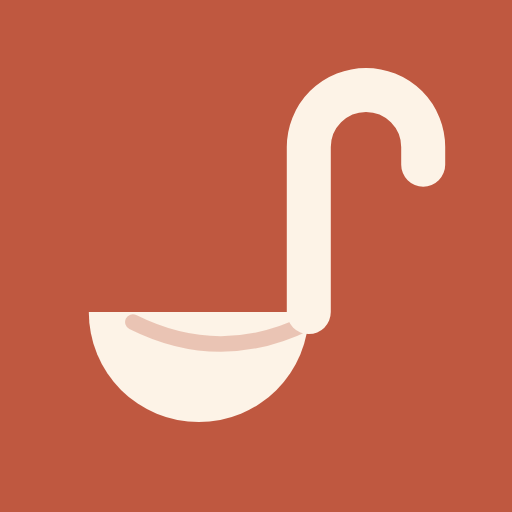
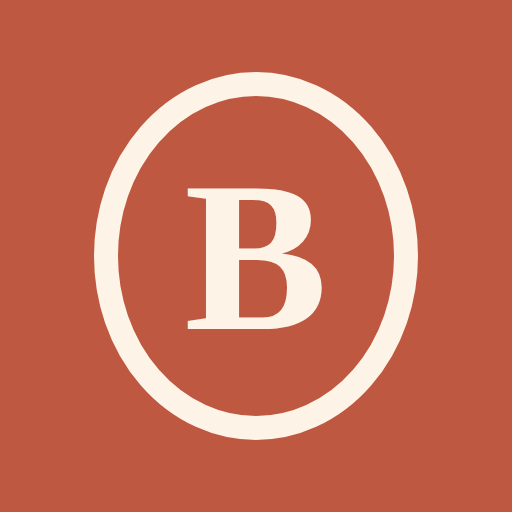
Rebrand: Ladle -> Bistro, with the oval-B monogram
Keeps the existing terracotta/olive palette; only the name and mark change.

- New Bistro monogram (serif “B” in an oval plaque) as the app icon — cream on
  the same terracotta ground. Regenerated favicon.svg and the 192/512 +
  apple-touch PNGs from it.
- BistroMark component (the monogram) signs off the "done" states, replacing
  the ladle glyph.
- Header signature is now the "Bistro" wordmark alone; pairing a "B" monogram
  with the word would only double the initial, so the mark stands alone on the
  icon and the done states instead.
- Renamed "Ladle" -> "Bistro" everywhere: title, social tags, apple web-app
  title, manifest name/short_name, and the walkthrough copy.

Claude-Session: https://claude.ai/code/session_01JSSF96LeRvXYfJ1hx6bc2p

Changed region(s): [[0.1562, 0.125, 0.875, 0.875]]

diff --git a/src/components/BistroMark.jsx b/src/components/BistroMark.jsx
@@ -1,0 +1,32 @@
+// The Bistro mark — a serif “B” in an oval plaque, the same monogram as the app
+// icon. Used to sign off the app's finished states. Matches the lucide icon API
+// (a `size` prop, currentColor) so it drops straight into EmptyState and
+// anywhere an icon is expected; the ground it sits on sets the colour.
+function BistroMark({ size = 24, className }) {
+  return (
+    <svg
+      className={className}
+      width={size}
+      height={size}
+      viewBox="0 0 48 48"
+      fill="none"
+      aria-hidden="true"
+    >
+      <ellipse cx="24" cy="24" rx="16.5" ry="19" stroke="currentColor" strokeWidth="2.6" />
+      <text
+        x="24"
+        y="24.5"
+        textAnchor="middle"
+        dominantBaseline="central"
+        fontFamily="Georgia, 'Times New Roman', serif"
+        fontWeight="600"
+        fontSize="23"
+        fill="currentColor"
+      >
+        B
+      </text>
+    </svg>
+  );
+}
+
+export default BistroMark;

diff --git a/src/components/BrandMark.jsx b/src/components/BrandMark.jsx
@@ -1,23 +1,12 @@
-// The app's logotype: a small hand-drawn ladle beside the wordmark, set in the
-// display serif. Sits where a screen's eyebrow label would — one quiet, human
-// signature instead of a generic product label.
+// The app's logotype: the wordmark set in the display serif. Sits where a
+// screen's eyebrow label would — one quiet, human signature instead of a
+// generic product label. The monogram mark (see BistroMark / the app icon)
+// carries the brand where it stands alone; here the word does the work, since
+// pairing a “B” with “Bistro” only doubles the initial.
 function BrandMark() {
   return (
     <span className="brand-mark">
-      <svg
-        className="brand-mark-glyph"
-        viewBox="0 0 24 24"
-        fill="none"
-        stroke="currentColor"
-        strokeWidth="1.8"
-        strokeLinecap="round"
-        strokeLinejoin="round"
-        aria-hidden="true"
-      >
-        <path d="M3.5 13.5h10a5 5 0 0 1-10 0Z" />
-        <path d="M13.5 13.5V6a2.6 2.6 0 0 1 5.2 0v.8" />
-      </svg>
-      <span className="brand-mark-word">Ladle</span>
+      <span className="brand-mark-word">Bistro</span>
     </span>
   );
 }

diff --git a/index.html b/index.html
@@ -8,13 +8,13 @@
 
     <!-- Link preview when the URL is shared in chats / social -->
     <meta property="og:type" content="website" />
-    <meta property="og:site_name" content="Ladle" />
-    <meta property="og:title" content="Ladle — plan the week, shop once" />
+    <meta property="og:site_name" content="Bistro" />
+    <meta property="og:title" content="Bistro — plan the week, shop once" />
     <meta property="og:description" content="Plan the week's dinners, reuse leftovers, and get a smart shopping list that skips what you already have." />
     <meta property="og:url" content="https://andrewmcconnell1-crypto.github.io/weekly-planner-react/" />
     <meta property="og:image" content="https://andrewmcconnell1-crypto.github.io/weekly-planner-react/icon-512.png" />
     <meta name="twitter:card" content="summary" />
-    <meta name="twitter:title" content="Ladle — plan the week, shop once" />
+    <meta name="twitter:title" content="Bistro — plan the week, shop once" />
     <meta name="twitter:description" content="Plan the week's dinners, reuse leftovers, and get a smart shopping list that skips what you already have." />
     <meta name="twitter:image" content="https://andrewmcconnell1-crypto.github.io/weekly-planner-react/icon-512.png" />
 
@@ -29,8 +29,8 @@
     />
     <meta name="apple-mobile-web-app-capable" content="yes" />
     <meta name="apple-mobile-web-app-status-bar-style" content="black-translucent" />
-    <meta name="apple-mobile-web-app-title" content="Ladle" />
-    <title>Ladle — weekly meal planner</title>
+    <meta name="apple-mobile-web-app-title" content="Bistro" />
+    <title>Bistro — weekly meal planner</title>
     <!-- Apply the saved theme before paint so there's no light flash in dark mode. -->
     <script>
       (function () {

diff --git a/src/components/HomeScreen.jsx b/src/components/HomeScreen.jsx
@@ -4,7 +4,7 @@ import TonightCard from "./TonightCard";
 import MealGroups from "./MealGroups";
 import ProgressRing from "./ProgressRing";
 import DishGlyph from "./DishGlyph";
-import LadleGlyph from "./LadleGlyph";
+import BistroMark from "./BistroMark";
 import { formatDate } from "../utils/dateUtils";
 import { days } from "../utils/mealUtils";
 
@@ -176,7 +176,7 @@ export default function HomeScreen({
           </button>
         ) : (
           <p className="home-week-done">
-            <LadleGlyph size={16} className="home-week-done-glyph" />
+            <BistroMark size={16} className="home-week-done-glyph" />
             Every night's planned — nice work.
           </p>
         )}

diff --git a/src/components/ShoppingList.jsx b/src/components/ShoppingList.jsx
@@ -2,7 +2,7 @@ import { useEffect, useRef, useState } from "react";
 import { ChevronDown, HelpCircle, ShoppingBasket } from "lucide-react";
 
 import EmptyState from "./EmptyState";
-import LadleGlyph from "./LadleGlyph";
+import BistroMark from "./BistroMark";
 import { normaliseItemName } from "../utils/itemUtils";
 import {
   groupByTier,
@@ -303,7 +303,7 @@ function ShoppingList({
       ) : (
         <>
           {pendingItems.length === 0 ? (
-            <EmptyState icon={LadleGlyph} tone="done" title="Kitchen's sorted">
+            <EmptyState icon={BistroMark} tone="done" title="Kitchen's sorted">
               Every last thing is in the basket — go put your feet up.
             </EmptyState>
           ) : priorityLayout ? (

diff --git a/src/components/DishGlyph.jsx b/src/components/DishGlyph.jsx
@@ -1,4 +1,4 @@
-// Ladle's hand-drawn glyph family — one consistent line-icon style (1.7
+// Bistro's hand-drawn glyph family — one consistent line-icon style (1.7
 // stroke, round caps) instead of platform emoji, so every tile and chip looks
 // like it belongs to this app. The dish glyphs' keys match what recipeImagery
 // resolves; the pantry glyphs (bottle, salt, onion, garlic, tin) and the

diff --git a/src/components/walkthroughSteps.js b/src/components/walkthroughSteps.js
@@ -42,7 +42,7 @@ export const WALKTHROUGH_STEPS = [
     id: "baskets",
     kicker: "Or plan in reverse",
     title: "Cook from your shop",
-    body: "Save your regular shops as baskets in the Kitchen tab. Pick one and Ladle shows which recipes you can already make from it — drop them straight onto a night.",
+    body: "Save your regular shops as baskets in the Kitchen tab. Pick one and Bistro shows which recipes you can already make from it — drop them straight onto a night.",
     Scene: SceneBaskets,
   },
 ];